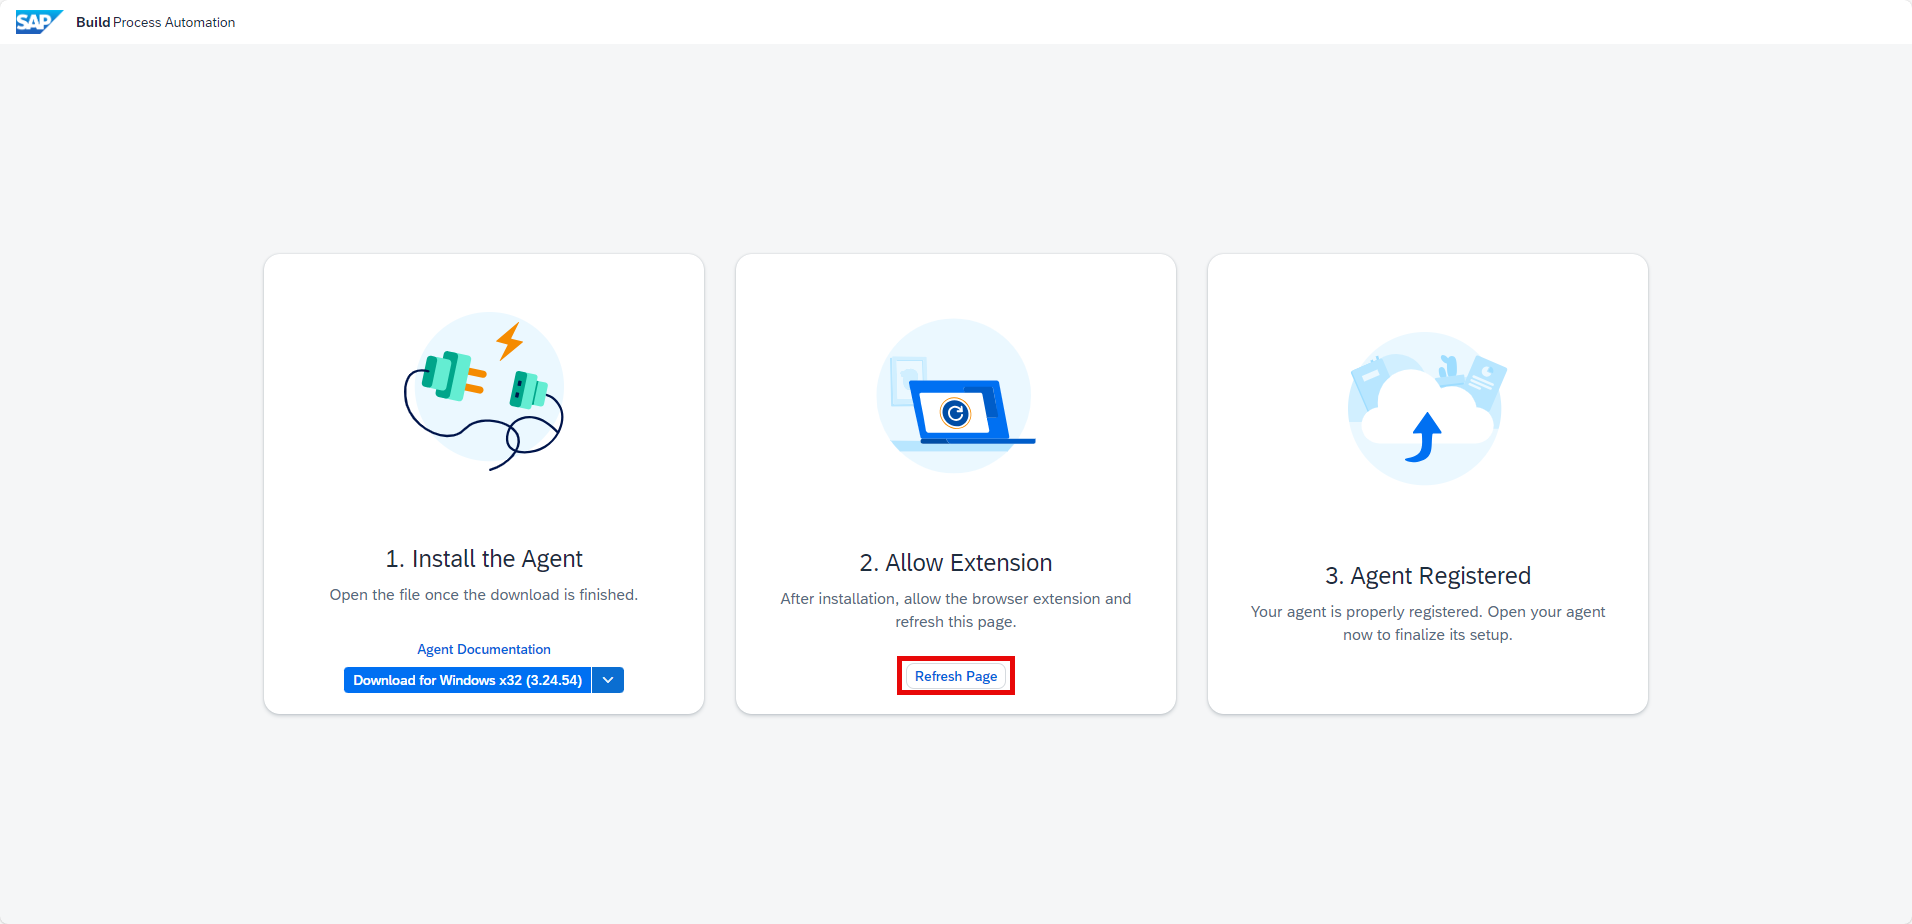
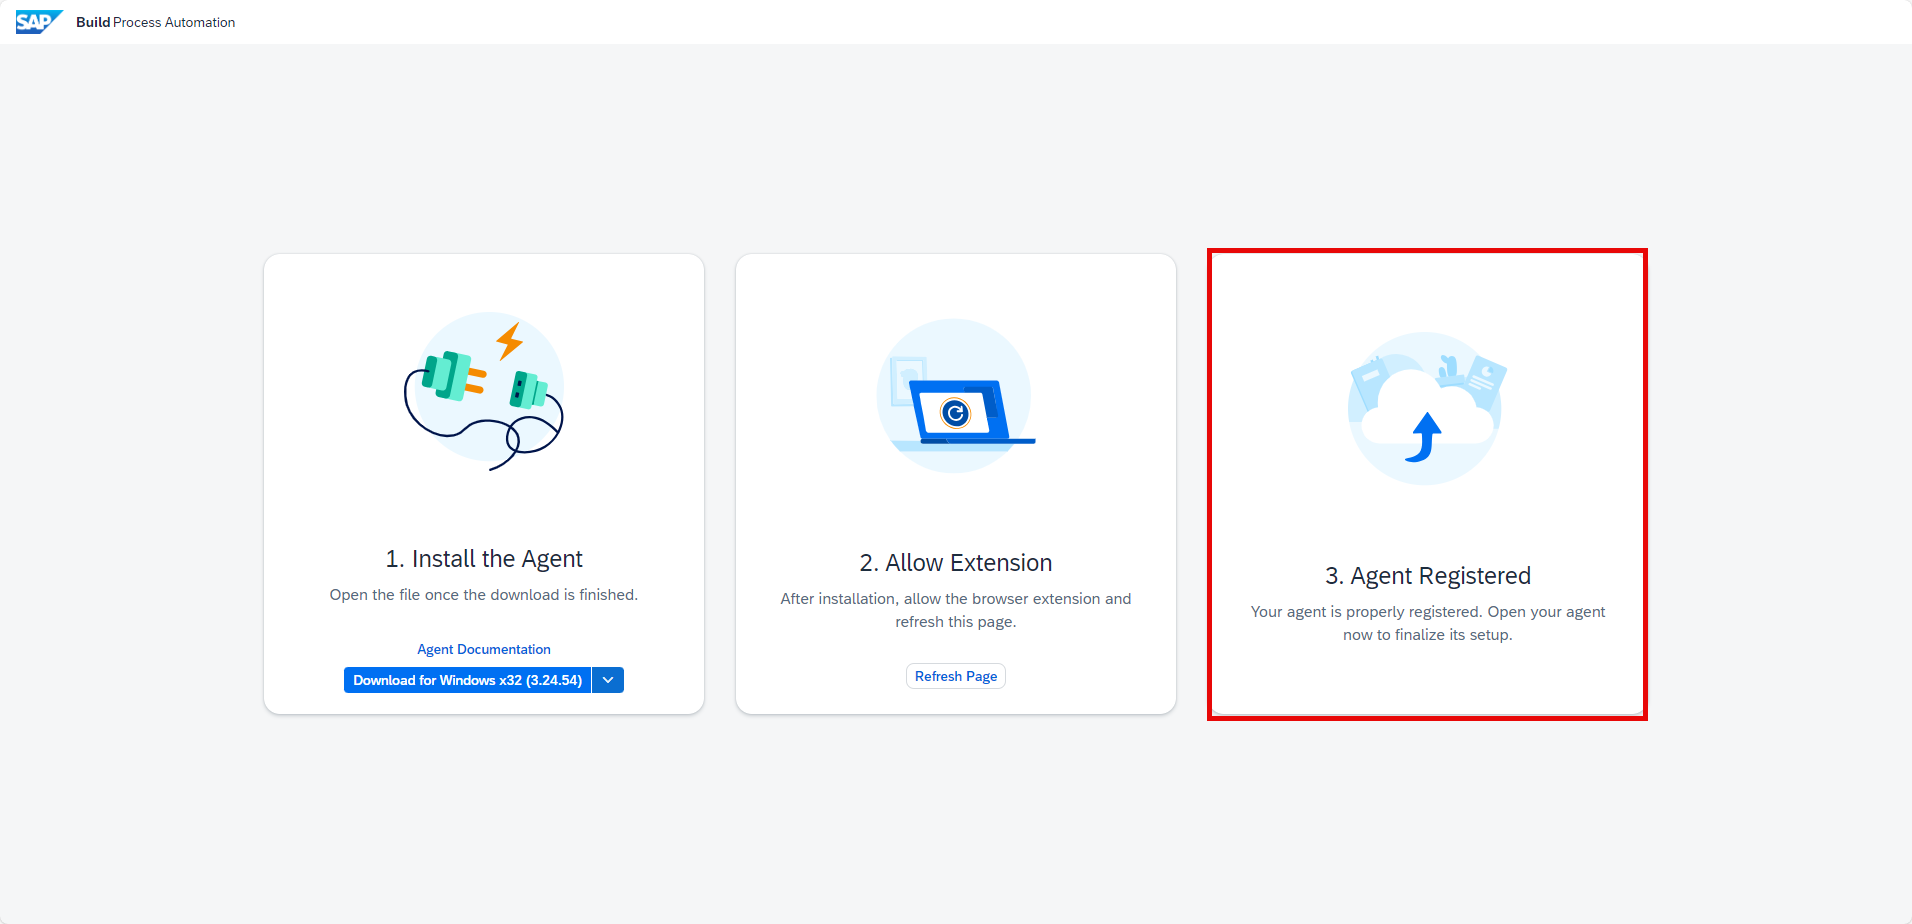
lobby changes

diff --git a/tutorials/spa-setup-desktop-3-0-agent/spa-setup-desktop-3-0-agent.md b/tutorials/spa-setup-desktop-3-0-agent/spa-setup-desktop-3-0-agent.md
@@ -157,12 +157,14 @@ Once the installation steps of the SAP Build Process Automation setup wizard are
 
 [OPTION BEGIN [Automatically]]
 
-1. After Step 3 completed, open the **Download Page** and choose **Register Agent** if it is not enabled.
+1. After installation is completed and browser extension allowed, open the **Download Page** and choose **Refresh Page**.
+
+2. Once the extension is enabled, you may register your agent to your tenant. Choose **Register Agent**.
 
     <!-- border -->![Register Agent](agent3-037.png)
 
-2. Once the Agent is registered, you may refresh the page.
-
+3. The Agent is registered:
+   
     <!-- border -->![Refresh Page](agent3-037a.png)
 
 3. Once the process is completed, open the **Desktop Agent 3**.
